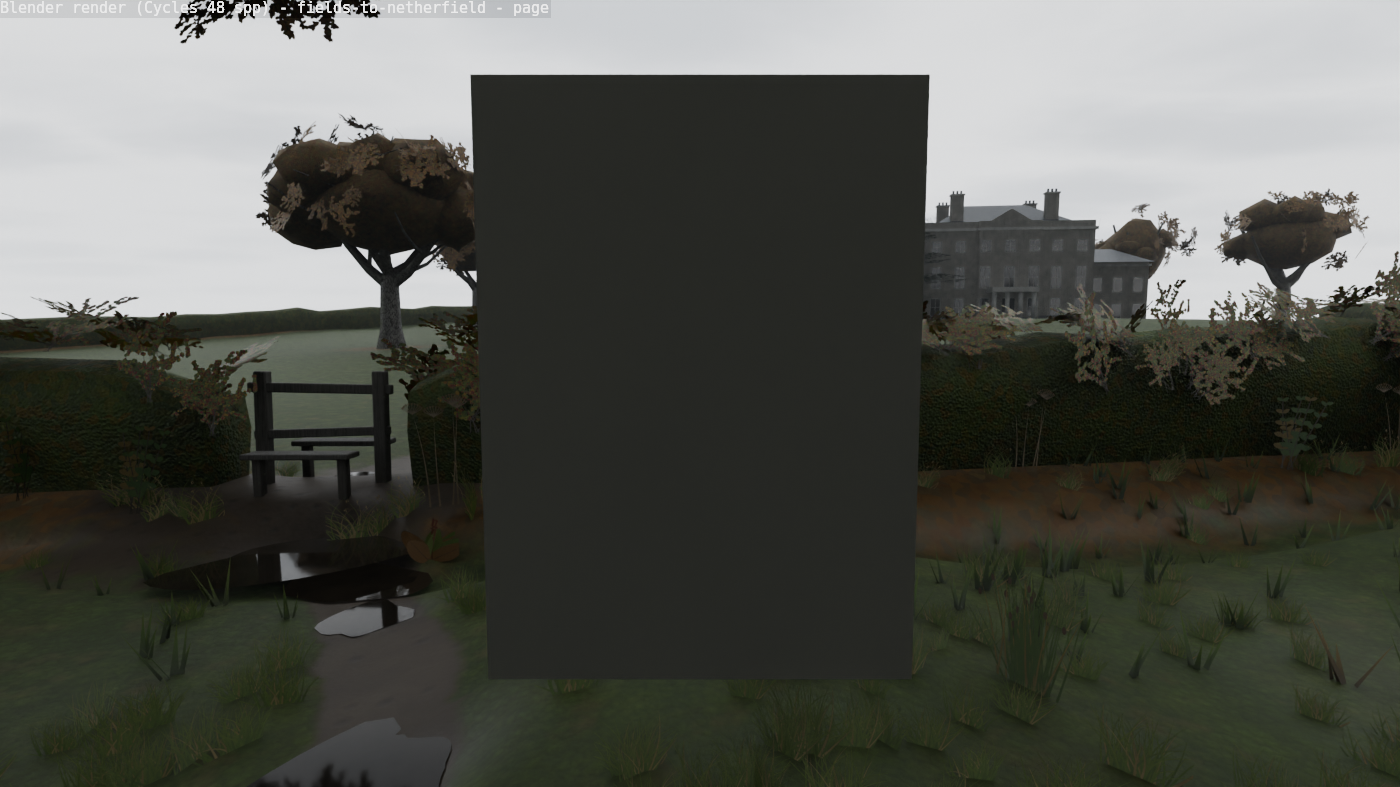
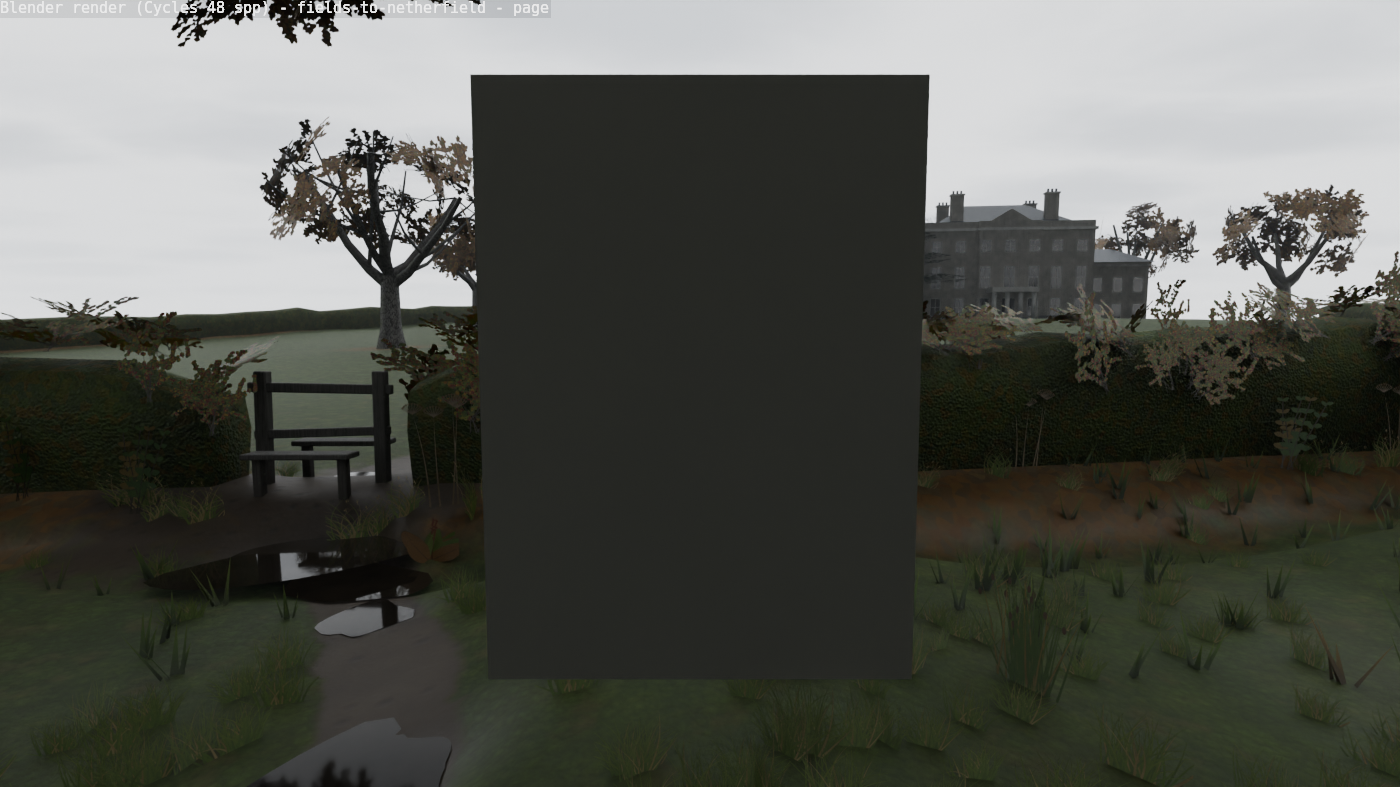
Fields to Netherfield: tree crowns back to cards (no opaque crown masses)
The opaque far-tree crown masses read as smooth balls against the sky. All tree
crowns are now cards only: near trees fewer, larger cards; far and park trees ~30
large cards each (about 1.8x the old size), none at the branch tips. Hedge and grass
diet unchanged. Alpha card faces 11453 -> 2627; reader-view alpha 2.31 -> 0.92
screens; surround 11.5 -> 5.5. Exported tris 51404 -> 40804.

diff --git a/blender/build_fields_to_netherfield.py b/blender/build_fields_to_netherfield.py
@@ -26,9 +26,9 @@ textures.
 Quest 2 foliage budget (2026-11-17): alpha-tested cards are what the Quest's tile GPU pays for, layer on layer, so they
 are kept where they matter: grass cards only within ~9 m (opaque blade tufts, MESH_GrassBlades, carry the sward to
 ~16 m, and the baked ground beyond); hedge spray cards only within ~20 m of the reader, over an opaque lumpy leafy hedge
-mass (MESH_HedgeMass), with a sparse fringe further off; near trees have fewer, larger cards round an opaque inner crown
-mass, far trees an opaque lumpy crown (MESH_OakCrownMass, MESH_MapleCrownMass) with a sparse card fringe. Measure with
-blender/measure_alpha_cards.py (reader view 2.31 -> 0.81 screens of alpha cards; 11453 -> 2673 card faces). By flag the script renders Cycles stills, bakes, merges static meshes by material and exports .gltf + .bin +
+mass (MESH_HedgeMass), with a sparse fringe further off; tree crowns are cards only (an opaque mass reads as a ball against
+the sky): fewer, larger cards on near trees; on far trees ~28 big cards and none at the branch tips. Measure with
+blender/measure_alpha_cards.py (reader view 2.31 -> 0.92 screens of alpha cards; 11453 -> 2627 card faces). By flag the script renders Cycles stills, bakes, merges static meshes by material and exports .gltf + .bin +
 textures/ for Unity (helpers in pride_kit.py).
 
 Node names Unity relies on:
@@ -587,8 +587,6 @@ PAL_HAW = [(0.20, 0.26, 0.10), (0.27, 0.35, 0.13), (0.32, 0.40, 0.15), (0.24, 0.
 PAL_OAK = [(0.36, 0.25, 0.11), (0.48, 0.33, 0.15), (0.42, 0.30, 0.13), (0.50, 0.42, 0.20), (0.38, 0.36, 0.16), (0.55, 0.42, 0.19), (0.32, 0.22, 0.10)]
 PAL_MAPLE = [(0.50, 0.38, 0.11), (0.58, 0.45, 0.14), (0.44, 0.40, 0.13), (0.62, 0.50, 0.17), (0.40, 0.30, 0.10)]
 M_HEDGEMASS = leaf_mass_mat("M_HedgeMass", PAL_HAW, leaf=12.0, lump=1.6, dark=0.5)
-M_OAKMASS = leaf_mass_mat("M_OakCrownMass", PAL_OAK, leaf=7.0, lump=0.9, dark=0.5)
-M_MAPLEMASS = leaf_mass_mat("M_MapleCrownMass", PAL_MAPLE, leaf=7.0, lump=1.0, dark=0.5)
 
 def weathered_oak(name="M_StileOak"):
     """Old oak gone silver-grey, split along the grain, green-grey lichen, dark and wet at the foot, the top rail
@@ -1072,18 +1070,19 @@ def tree(name, x, y, height, spread, kind, seed, bark, leaves_mat, nlimbs=6, det
     return tips, C
 
 print("trees ...", flush=True)
-OAK = tree("OakStile", -9.6, 7.0, 15.5, 7.5, "oak", 31, M_OAKBARK, M_OAKL, nlimbs=7, cards_per_tip=1, card_size=1.7, fill=150, mass=M_OAKMASS, mass_k=0.68)
+OAK = tree("OakStile", -9.6, 7.0, 15.5, 7.5, "oak", 31, M_OAKBARK, M_OAKL, nlimbs=7, cards_per_tip=1, card_size=1.9, fill=190)
 ASH = tree("AshRooks", 16.2, 10.0, 17.0, 5.5, "ash", 32, M_ASHBARK, M_TWIG, nlimbs=6, cards_per_tip=1, card_size=1.8, dense=1.0, fill=60)
-MAPLE = tree("MapleB", 9.9, -5.0, 8.5, 3.6, "maple", 33, M_OAKBARK, M_MAPLE, nlimbs=5, cards_per_tip=1, card_size=1.25, fill=45, mass=M_MAPLEMASS, mass_k=0.75)
-# far trees: opaque lumpy crowns, a sparse fringe of cards for a broken outline (bare ashes keep a few twig cards)
-FAR = dict(nlimbs=5, detail=0.6, cards_per_tip=0, mass_k=0.92, mass_sub=2, nblobs=10)
-tree("OakField", -20.0, 43.0, 14.0, 7.0, "oak", 34, M_OAKBARK, M_OAKL, card_size=2.2, fill=65, mass=M_OAKMASS, **dict(FAR, nlimbs=6))
-tree("MapleC", -40.8, -18.0, 12.0, 5.0, "maple", 35, M_OAKBARK, M_MAPLE, card_size=2.2, fill=55, mass=M_MAPLEMASS, **FAR)
-tree("OakD", -16.0, -47.2, 13.0, 6.0, "oak", 36, M_OAKBARK, M_OAKL, card_size=2.2, fill=55, mass=M_OAKMASS, **FAR)
+MAPLE = tree("MapleB", 9.9, -5.0, 8.5, 3.6, "maple", 33, M_OAKBARK, M_MAPLE, nlimbs=5, cards_per_tip=1, card_size=1.4, fill=80)
+# far trees: cards only (an opaque crown mass reads as a smooth ball against the sky), but few and large: ~28 cards at
+# ~1.8x the old size, none at the branch tips (bare ashes keep a few twig cards)
+FAR = dict(nlimbs=5, detail=0.6, cards_per_tip=0)
+tree("OakField", -20.0, 43.0, 14.0, 7.0, "oak", 34, M_OAKBARK, M_OAKL, card_size=3.6, fill=34, **dict(FAR, nlimbs=6))
+tree("MapleC", -40.8, -18.0, 12.0, 5.0, "maple", 35, M_OAKBARK, M_MAPLE, card_size=3.9, fill=34, **FAR)
+tree("OakD", -16.0, -47.2, 13.0, 6.0, "oak", 36, M_OAKBARK, M_OAKL, card_size=3.6, fill=34, **FAR)
 tree("AshD", 24.0, -44.3, 14.0, 4.5, "ash", 37, M_ASHBARK, M_TWIG, nlimbs=5, detail=0.6, cards_per_tip=1, card_size=2.2, fill=40)
-tree("OakE", 52.0, 30.0, 13.0, 6.0, "oak", 38, M_OAKBARK, M_OAKL, card_size=2.4, fill=50, mass=M_OAKMASS, **FAR)
-tree("MapleA", 38.0, 14.2, 11.0, 4.6, "maple", 39, M_OAKBARK, M_MAPLE, card_size=2.4, fill=50, mass=M_MAPLEMASS, **FAR)
-tree("OakF", -44.5, 30.0, 14.0, 6.0, "oak", 40, M_OAKBARK, M_OAKL, card_size=2.4, fill=50, mass=M_OAKMASS, **FAR)
+tree("OakE", 52.0, 30.0, 13.0, 6.0, "oak", 38, M_OAKBARK, M_OAKL, card_size=4.0, fill=34, **FAR)
+tree("MapleA", 38.0, 14.2, 11.0, 4.6, "maple", 39, M_OAKBARK, M_MAPLE, card_size=4.0, fill=34, **FAR)
+tree("OakF", -44.5, 30.0, 14.0, 6.0, "oak", 40, M_OAKBARK, M_OAKL, card_size=4.0, fill=34, **FAR)
 # the park round the house: a cedar on the lawn, beeches and limes behind
 def cedar(name, x, y, h, seed):
     R = random.Random(seed); z = gz(x, y)
@@ -1114,8 +1113,7 @@ for i, (tx, ty, th, kind) in enumerate([(62, 96, 19, "elm"), (55, 103, 17, "oak"
     if math.hypot(tx, ty) > LAND_R - 6: continue
     bare = kind == "ash"
     tree(f"Park{i}", tx, ty, th, th * 0.42, kind, 50 + i, M_ASHBARK if kind != "oak" else M_OAKBARK, M_TWIG if bare else M_OAKL,
-         nlimbs=5, detail=0.5, cards_per_tip=1 if bare else 0, card_size=2.8, fill=40 if bare else 30,
-         mass=None if bare else M_OAKMASS, mass_k=0.92, mass_sub=1, nblobs=8)
+         nlimbs=5, detail=0.5, cards_per_tip=1 if bare else 0, card_size=2.8 if bare else 4.7, fill=40 if bare else 30)
 
 # rooks' nests in the ash: rough twig balls in the upper forks
 for (q, d, depth) in ASH[0]:
@@ -1362,7 +1360,7 @@ if ARGS.bake or ARGS.export:
                     "M_Puddle": "water.puddle.path", "M_SkyDome": "SkyDome", "M_FarLand": "far.land", "M_GroundNear": "GroundNear"},
         keep_uv={"M_GroundNear", "M_FarLand", "M_SkyDome"},
         size_for={"M_GroundNear": (4096, 2048, 2048), "M_FarLand": (1024, 256, 512), "M_SkyDome": (2048,),
-                  "M_HedgeMass": (1024, 256, 512), "M_OakCrownMass": (512, 128, 512), "M_MapleCrownMass": (256, 64, 256), "M_OakBark": (1024, 256, 512), "M_AshBark": (512, 128, 512),
+                  "M_HedgeMass": (1024, 256, 512), "M_OakBark": (1024, 256, 512), "M_AshBark": (512, 128, 512),
                   "M_StileOak": (512, 256, 512), "M_GateOak": (512, 128, 256), "M_HouseStucco": (1024, 128, 256),
                   "M_HouseSlate": (256, 64, 128), "M_Puddle": (128, 64, 128), "M_HouseWindows": (32, 32), "M_HousePaint": (64, 32),
                   "M_FarStone": (128, 32)},
